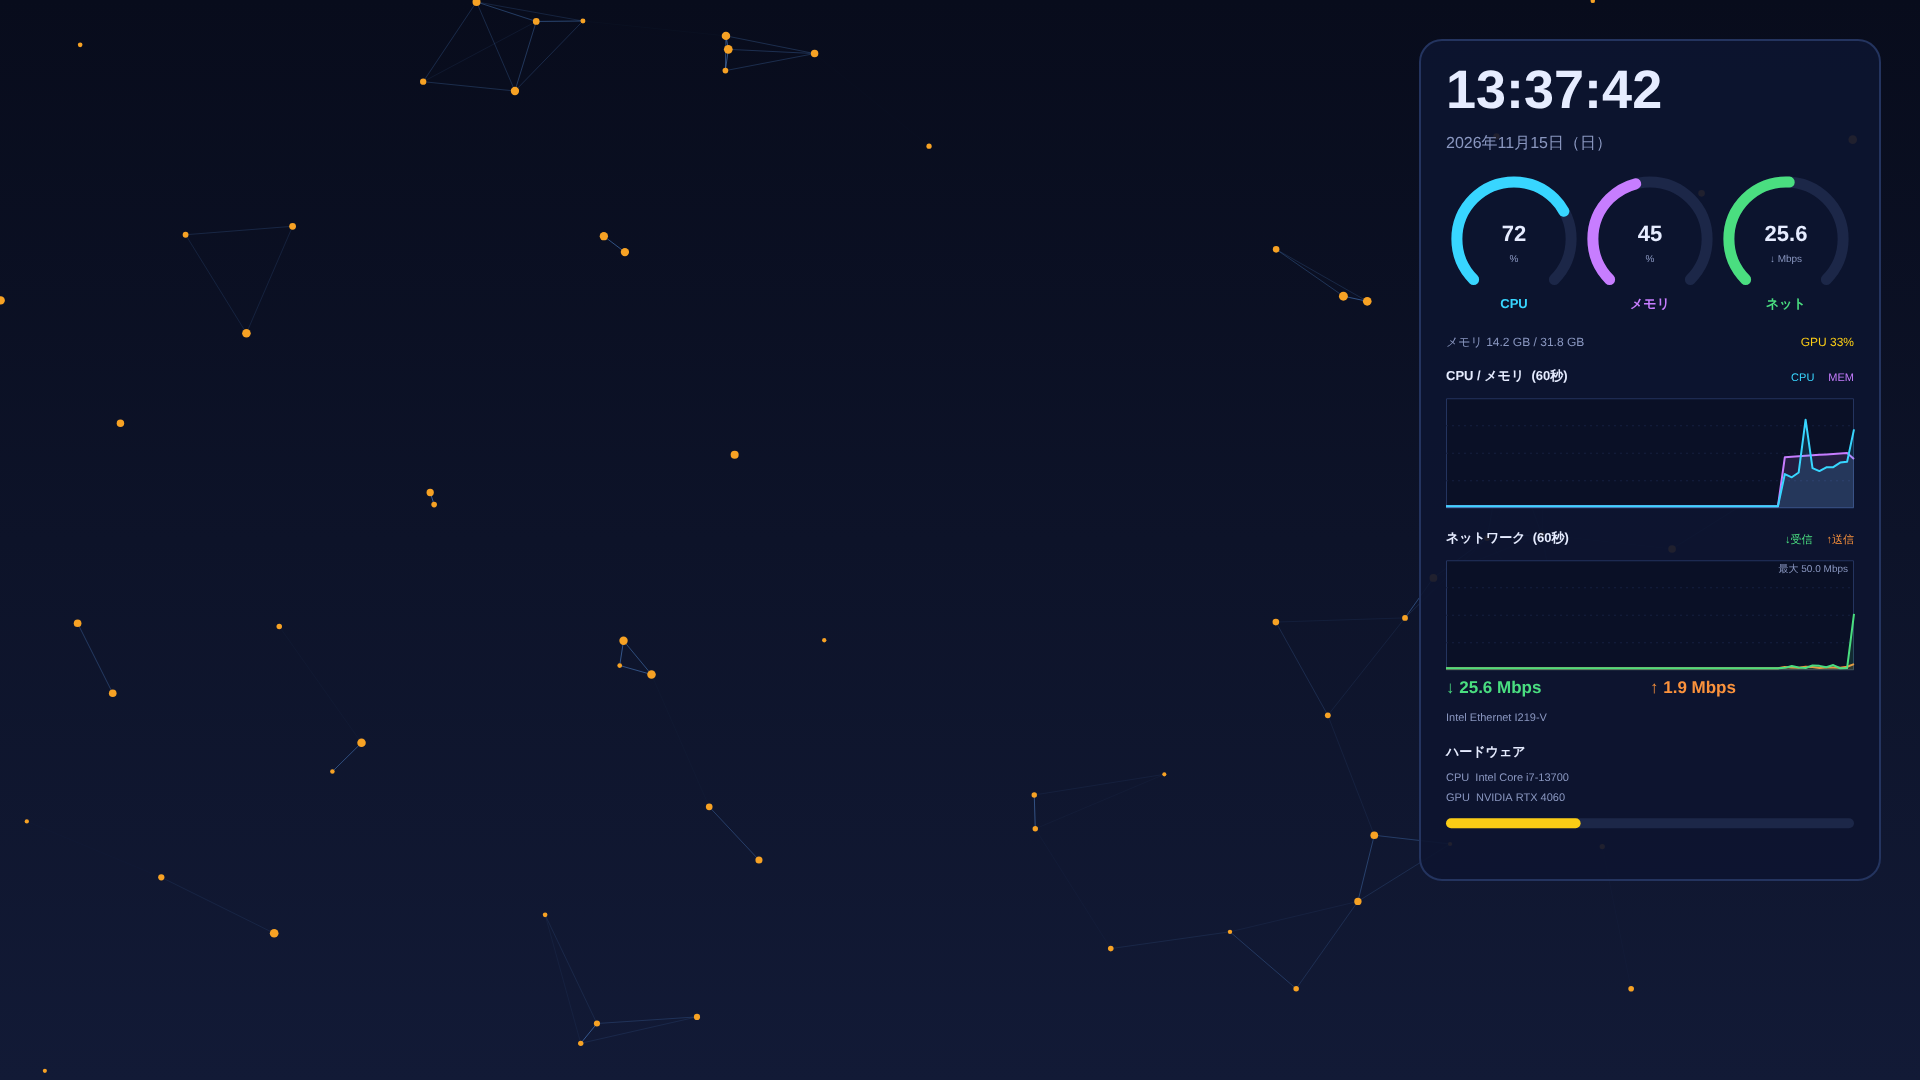
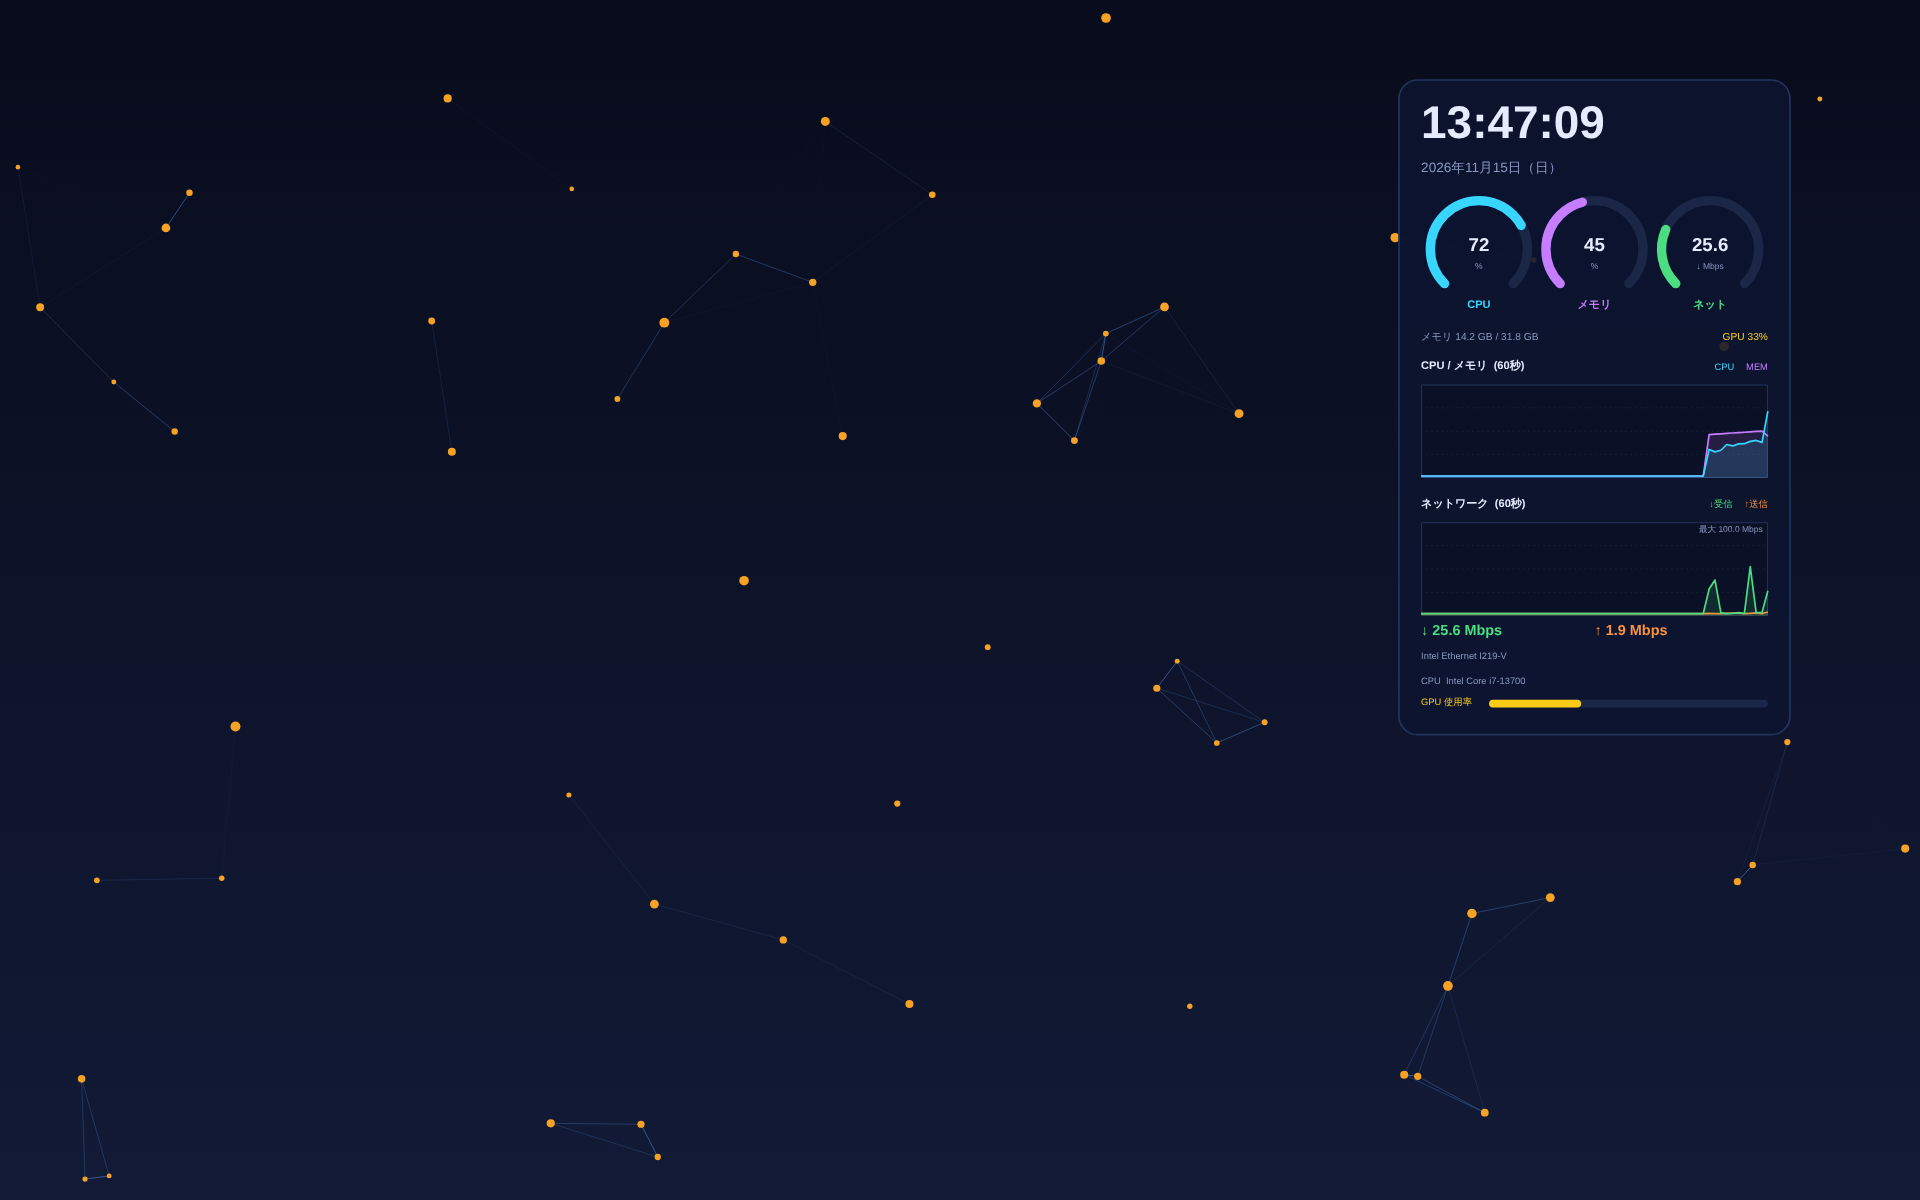
Lively版：パネルをアイコンと重ならない位置・大きさに調整、30fps上限で負荷軽減、GPU名を非表示
Claude-Session: https://claude.ai/code/session_01Ed3vnCFqNZxn8YQ3tcD2rj

diff --git a/moving_desktop/lively/index.html b/moving_desktop/lively/index.html
@@ -22,9 +22,14 @@
 
 // ---------- 設定 ----------
 const CFG = {
-  particles: 70,        // 背景の粒の数
+  fps: 30,              // 描画の上限（下げるほど軽い。15～60）
+  particles: 60,        // 背景の粒の数（減らすほど軽い）
   linkDist: 150,        // 粒同士を線で結ぶ距離（1080p基準）
   panelSide: "right",   // "right" / "left"
+  panelScale: 0.85,     // パネルの大きさ（1.0 = 標準）
+  panelMarginX: 130,    // 画面の端からの距離（px）※右端のアイコン列を避ける
+  panelMarginY: 80,     // 画面の上からの距離（px）※上段のアイコンを避ける
+  panelAlpha: 0.88,     // パネルの不透明度
   history: 60,          // グラフの点数（Livelyは約1秒ごとに送信 → 60秒）
 };
 
@@ -107,19 +112,20 @@ function loadColor(v) {
 // ---------- 描画準備 ----------
 const cv = document.getElementById("c");
 const ctx = cv.getContext("2d");
-let W = 0, H = 0, s = 1, parts = [], bgGrad;
+let W = 0, H = 0, s = 1, bs = 1, parts = [], bgGrad, panelH = 800;
 
 function resize() {
   const dpr = window.devicePixelRatio || 1;
   W = window.innerWidth; H = window.innerHeight;
   cv.width = W * dpr; cv.height = H * dpr;
   ctx.setTransform(dpr, 0, 0, dpr, 0, 0);
-  s = H / 1080;
+  bs = H / 1080;                                        // 背景用
+  s = Math.min(H / 1080, W / 1920) * CFG.panelScale;    // パネル用
   bgGrad = ctx.createLinearGradient(0, 0, 0, H);
   bgGrad.addColorStop(0, rgb(C.bgTop)); bgGrad.addColorStop(1, rgb(C.bgBottom));
   parts = Array.from({ length: CFG.particles }, () => ({
     x: Math.random() * W, y: Math.random() * H,
-    vx: Math.random() * 2 - 1, vy: Math.random() * 2 - 1, r: (2 + Math.random() * 2.5) * s,
+    vx: Math.random() * 2 - 1, vy: Math.random() * 2 - 1, r: (2 + Math.random() * 2.5) * bs,
   }));
 }
 window.addEventListener("resize", resize);
@@ -139,9 +145,9 @@ function text(t, x, y, size, color, weight = "normal", align = "left", base = "t
 // ---------- 背景 ----------
 function drawBackground(dt) {
   ctx.fillStyle = bgGrad; ctx.fillRect(0, 0, W, H);
-  const speed = (0.4 + 2.6 * S.cpu / 100) * s * dt * 30;
+  const speed = (0.4 + 2.6 * S.cpu / 100) * bs * dt * 30;
   const pc = rgb(loadColor(S.cpu));
-  const ld = CFG.linkDist * s;
+  const ld = CFG.linkDist * bs;
   for (const p of parts) {
     p.x += p.vx * speed; p.y += p.vy * speed;
     if (p.x < 0 || p.x > W) { p.vx *= -1; p.x = Math.min(Math.max(p.x, 0), W); }
@@ -206,12 +212,12 @@ function sectionTitle(x0, x1, y, title, legends) {
 }
 
 function drawPanel() {
-  const pw = 460 * s, m = 40 * s, pad = 26 * s;
-  const x0 = CFG.panelSide === "left" ? m : W - pw - m, y0 = 40 * s;
+  const pw = 460 * s, pad = 26 * s;
+  const x0 = CFG.panelSide === "left" ? CFG.panelMarginX : W - pw - CFG.panelMarginX;
+  const y0 = CFG.panelMarginY;
   const ix0 = x0 + pad, ix1 = x0 + pw - pad, iw = ix1 - ix0;
-  const panelH = 840 * s;
 
-  ctx.fillStyle = "rgba(13,21,48,0.92)"; rr(x0, y0, pw, panelH, 22 * s); ctx.fill();
+  ctx.fillStyle = `rgba(13,21,48,${CFG.panelAlpha})`; rr(x0, y0, pw, panelH, 22 * s); ctx.fill();
   ctx.strokeStyle = C.edge; ctx.lineWidth = 2 * s; ctx.stroke();
 
   let y = y0 + pad;
@@ -254,27 +260,29 @@ function drawPanel() {
   text(`↑ ${uv} ${uu}`, ix0 + iw / 2, y, 17, C.up, "bold");
   y += 32 * s;
   if (S.nameNet) text(S.nameNet.slice(0, 48), ix0, y, 11, C.sub);
-  y += 34 * s;
+  y += 30 * s;
 
-  // CPU / GPU 名
-  text("ハードウェア", ix0, y, 13, C.text, "bold");
-  y += 26 * s;
+  // CPU 名 と GPU 使用率
   text("CPU  " + (S.nameCpu || "-").slice(0, 44), ix0, y, 11, C.sub);
-  y += 20 * s;
-  text("GPU  " + (S.nameGpu || "-").slice(0, 44), ix0, y, 11, C.sub);
-  y += 26 * s;
-  // GPU バー
-  ctx.fillStyle = C.track; rr(ix0, y, iw, 10 * s, 5 * s); ctx.fill();
-  if (S.gpu > 0.5) { ctx.fillStyle = C.gpu; rr(ix0, y, iw * Math.min(1, S.gpu / 100), 10 * s, 5 * s); ctx.fill(); }
+  y += 24 * s;
+  text("GPU 使用率", ix0, y, 11, C.gpu);
+  ctx.fillStyle = C.track; rr(ix0 + 80 * s, y + 3 * s, iw - 80 * s, 9 * s, 4.5 * s); ctx.fill();
+  if (S.gpu > 0.5) {
+    ctx.fillStyle = C.gpu;
+    rr(ix0 + 80 * s, y + 3 * s, (iw - 80 * s) * Math.min(1, S.gpu / 100), 9 * s, 4.5 * s); ctx.fill();
+  }
+  y += 18 * s;
+  panelH = y + pad - y0;   // 次のフレームで中身に合わせた高さにする
 }
 
 // ---------- ループ ----------
 let last = performance.now();
 function frame(t) {
+  requestAnimationFrame(frame);
+  if (t - last < 1000 / CFG.fps - 2) return;   // fps の上限で間引く
   const dt = Math.min(0.1, (t - last) / 1000); last = t;
   drawBackground(dt);
   drawPanel();
-  requestAnimationFrame(frame);
 }
 requestAnimationFrame(frame);
 </script>
